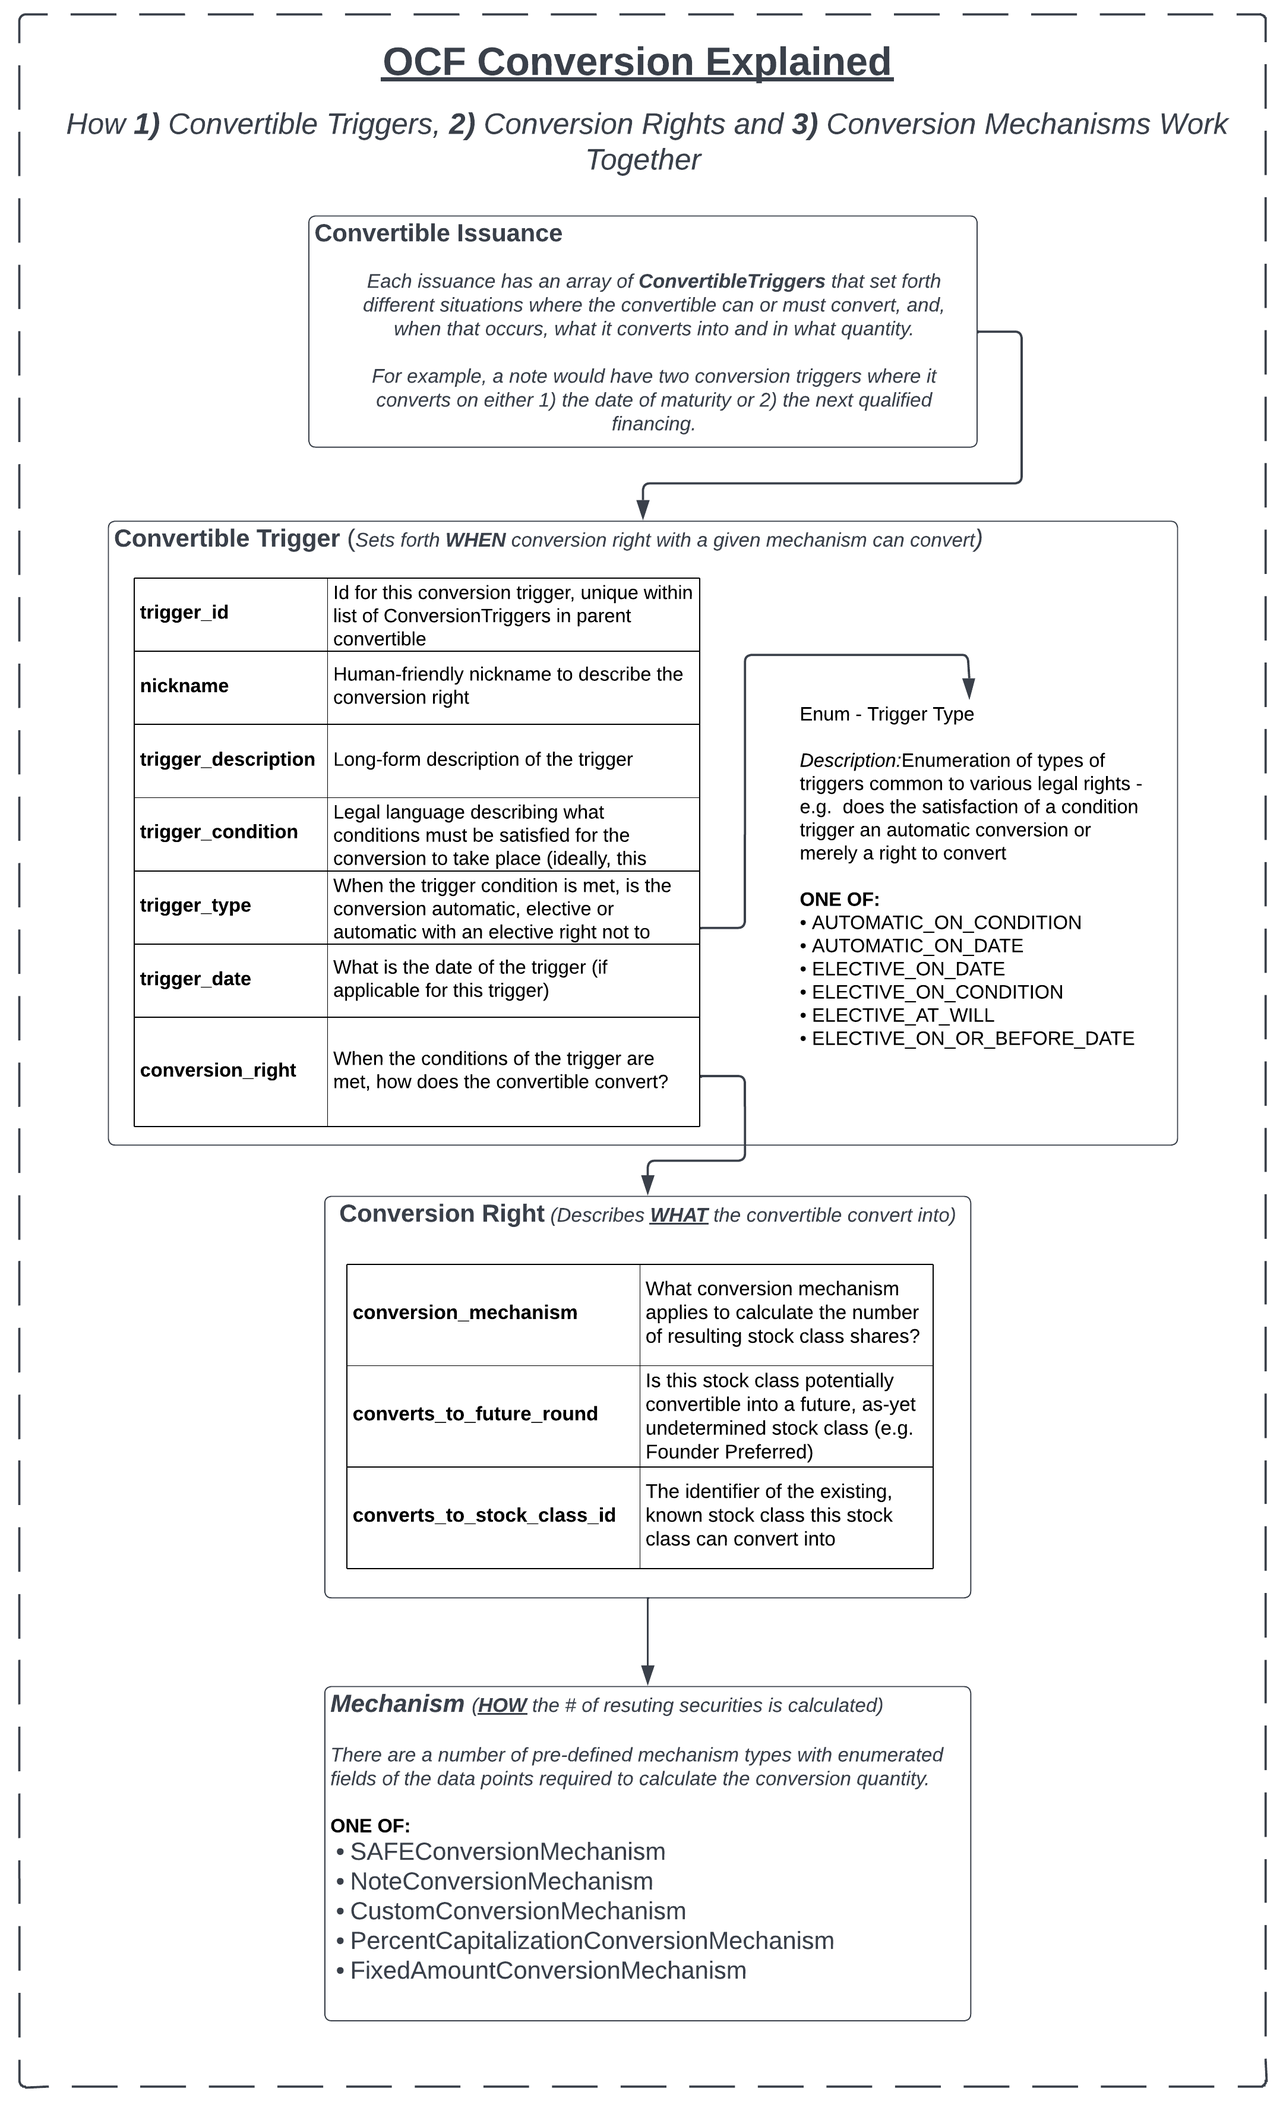
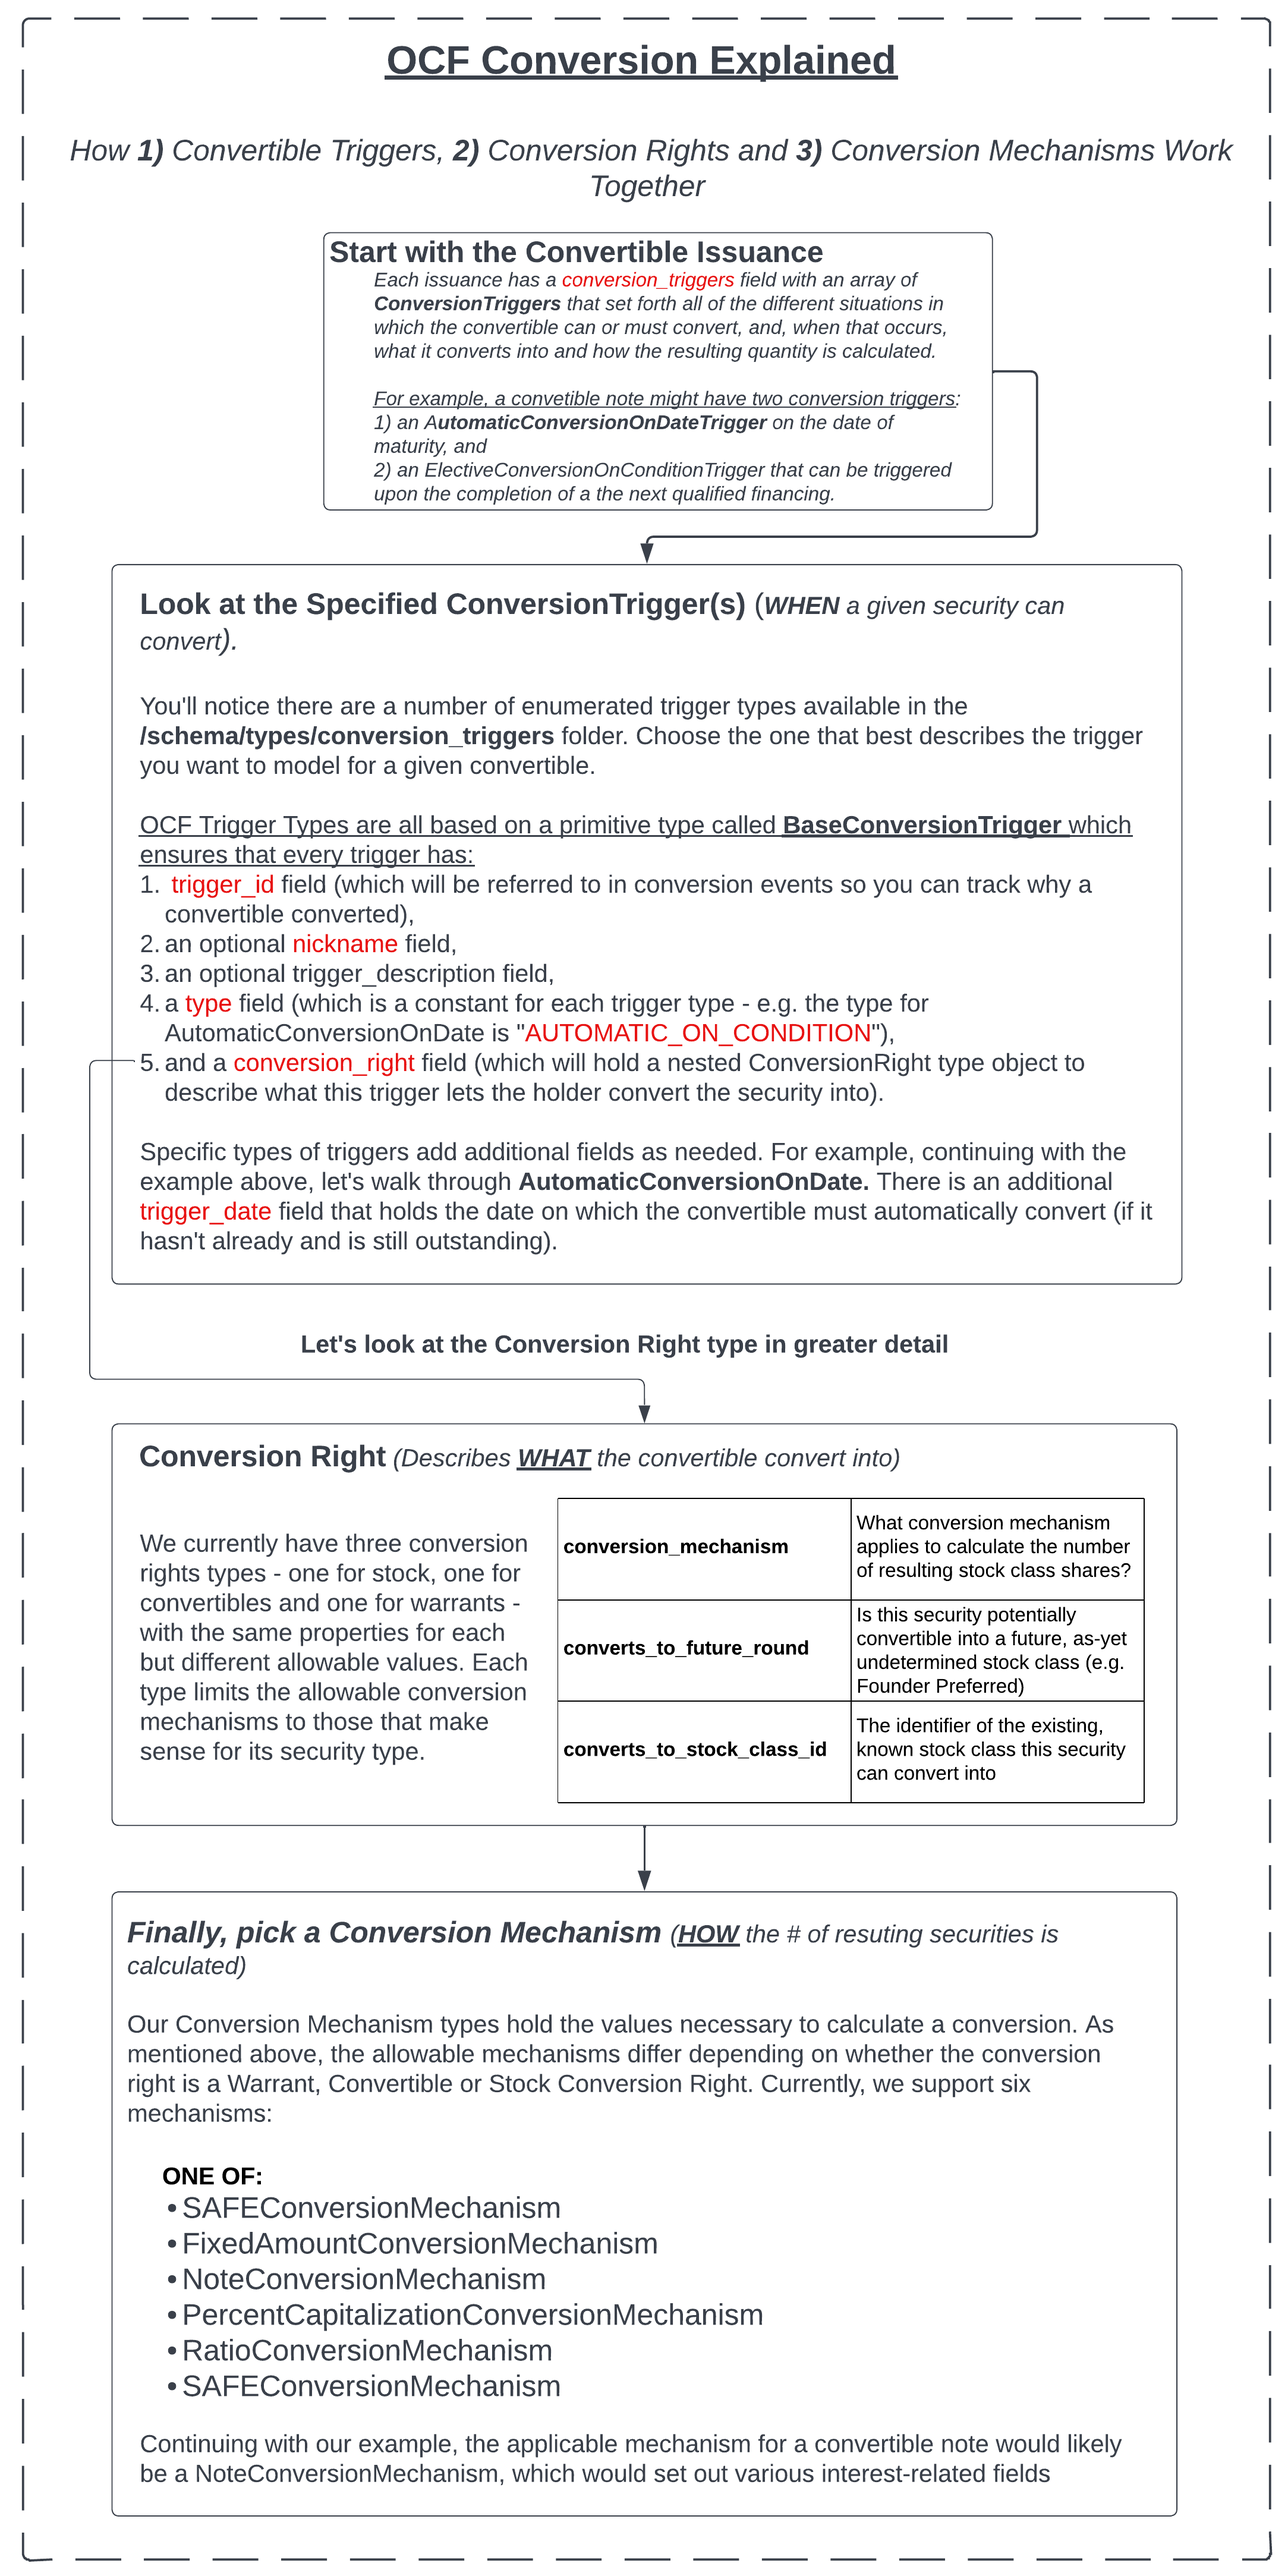
Updated conversion diagrams, tweaked and restructured README to provide additional context and info for launch.

diff --git a/README.md b/README.md
@@ -39,11 +39,13 @@ There are currently 8 file types that make up a cap table:
 8. [Vesting Schedules File(s)](/schema/files/VestingSchedulesFile.schema.json) - One or more files storing vesting
    schedules used by the issuer.
 
-**At the moment, we recommend combining all of these files into a single compressed file with a \*.ocf extension:**
+**At the moment, we recommend combining all of these files into a single compressed file with a \*.ocf.zip extension:**
 
 ![](docs/images/OCF%20Container.png)
 
-We are working on sample tooling to interact with compressed \*.ocf files.
+We are working on sample tooling to interact with compressed \*.ocf.zip files.
+
+**You can also break out the various OCF Types and OCF Objects and make those available separately via API or other, suitable mechanism. The key part of OCF is the data structure, not the container itself, though, to ensure complete cap table integrity, a full cap table export is recommended.**
 
 ### Event-Driven Architecture
 
@@ -56,17 +58,21 @@ Here's an example of how an event stack would work to track the lifecycle of a s
 
 ![](/docs/images/Transaction%20Stack%20Animation.gif)
 
+## Key OCF Concepts
+
+_OCF is designed to be extremely expressive and extensible. Pay particular attention to vesting and conversion, which have both been designed to support the types of complex, bespoke vesting and conversion conditions commonly found on attorney-drafted options and convertibles yet are (today) challenging to model in a structured format_
+
 ### Conversions
 
-The OCF conversion mechanism (which describes how, when and what a convertible security converts into) is based on three key concepts:
+The conversion of one OCF security into another is modeled using three key concepts which describe how, when and into what a convertible security converts into:
 
-1. Conversion Right: what can the security convert into?
-2. Conversion Trigger: when and under what conditions does the Conversion Right come into effect?
-3. Conversion Mechanism: how is the coversion amount calculated?
+1. [Conversion Right](/schema/types/conversion_rights/): what can the security convert into?
+2. [Conversion Trigger](/schema/types/conversion_triggers/): when and under what conditions does the Conversion Right come into effect?
+3. [Conversion Mechanism](/schema/types/conversion_mechanisms/): how is the coversion amount calculated?
 
-We use a similar design pattern for convertible stock (e.g. preferred stock), warrants (which don't "convert" but can be "exercised") and convertible securities (e.g. notes).
+We use the same design patterns for convertible stock (e.g. preferred stock converting into common), warrants (which don't "convert" but can be "exercised") and convertible securities (e.g. notes).
 
-Let's illustrate the design pattern using convertible securities as an example:
+Let's illustrate the design pattern using a convertible note as an example:
 
 ![](docs/images/OCF%20Conversion%20Diagram.png)
 
@@ -74,45 +80,13 @@ And here's what some sample data looks like in practice:
 
 ![](docs/images/OCF%20Conversion%20Example.png)
 
-### Schema Composition
+### Vesting
 
-In order to improve code quality, reduce repetition and provide for a better developer experience, OCF schemas rely
-heavily on [object composition](https://en.wikipedia.org/wiki/Object_composition). In the
-[primitives folder](/schema/primitives), you'll see a number of abstract base models called "primitives" stored in a
-folder structure that mirrors our [objects folder](/schema/objects). We incorporate the properties in these primitives
-into OCF objects by using the JSONSchema [allOf](https://json-schema.org/understanding-json-schema/reference/combining.html)
-property.
+Our vesting data model supports arbitrarily-complex trees of dependent vesting conditions that can mix time-based and event-based vesting (e.g. vesting over time and "milestone" vesting, in any execution order with any desired dependencies). We are working on more comprehensive documentation for these concepts. In the meantime, please review the [vesting terms object](/schema/objects/VestingTerms.schema.json) (essentially a "vesting schedule"). the vesting OCF Types in [/schema/types/vesting](/schema/types/vesting/), and the vesting events in [/schema/objects/transactions/vesting](/schema/objects/transactions/vesting/) (which are used to indicate when a given vesting schedule starts for a given security and when a milestone-based condition is satisfied).
 
-For example, all of our transaction events must have properties listed in the
-[BaseTransaction](/schema/primitives/transactions/BaseTransaction.schema.json) schema. Then, different groups of
-transaction events share some common properties, and these are enforced by incorporating more specific primitives -
-e.g. all issues (whether of stock, plan securities, warrants or convertibles) must incorporate the properties set
-forth in [BaseAcceptance](/schema/primitives/transactions/acceptance/BaseAcceptance.schema.json) _in addition to the
-properties in BaseTransaction_.
+You can see example vesting schedules in our samples folder in the [VestingTerms.ocf.json](/samples/VestingTerms.ocf.json) file.
 
-### What's with empty properties (e.g. {}) in your schemas?
-
-You'll notice that _required_ OCF object properties that are incorporated via composition have empty objects
-as their schema values in the OCF object schemas (i.e. `"id": {}`). This is due to how JSONSchema validators interact with the
-"required" property. If validators don't find a required property in an object schema, even if it's one of the
-primitives the object is composed of, most (all?) JSONSchema validators will throw an error. As a result, we need to
-add required, "inherited" properties to the final OCF object schemas. They don't actually need to be redefined, however,
-so we just assign these repeat properties a value of {} in the schema as JSONSchema validators _can_ import the property
-details via allOf. Our documentation generator looks back to the full details of the property from the inherited schemas,
-however, and the documentation shows the full property details inherited from the primitives. Unless you're developing
-OCF schemas, these implementation details probably won't matter to you, and you can rely on our documentation for
-definitive documentation of the necessary properties and all details thereof.
-
-## How to Contribute
-
-If you would like to suggest a bug-fix or correction to the existing spec, please go ahead and submit a pull request
-with the change. Please consult our [contributor guidelines](/docs/CONTRIBUTING.MD) before submitting.
-
-If you have a suggestion, feature request or other substantive change you think should be incorporated into OCF,
-please start by opening a discussion in our
-[suggestions channel](https://github.com/Open-Cap-Table-Coalition/Open-Cap-Format-OCF/discussions/categories/suggestions)
-on GitHub. Once a consensus is reached on whether and how to incorporate your suggestion, the TWG
-may open an issue and assign a TWG member to lead further work on the issue.
+Stay tuned for expanded documentation!
 
 ## Overall Repo Organization
 
@@ -978,9 +952,55 @@ _Used for object property composition and enforcing uniform properties across pa
 
 - Simply use [VSCode](https://code.visualstudio.com/) with the "Prettier - Code formatter"
 
-### Developing
+### Development Environment Setup
 
 This repo requires Prettier to be run on all files. Run `npm install` to install dev dependencies and Prettier will automatically run pre-commit.
+
+### OCF Types vs OCF Objects
+
+You may notice this distinction in our repo organization, yet both OCF Types and OCF Objects are commonly JSONSchema `object` types (basically meaning they are JSONs).
+
+- An **OCF Object** is a schema with a JSONSchema types of `object` that MUST have a unique Id field in each instance of its schema.
+
+- An **OCF Type** is meant to describe a specific data type that is does not have a unique ID and will be nested somewhere within an OCF Object. These usually have a JSONSchema type of `object`, but they can also be JSONSchema primitives like strings, numbers, etc. that have specific validation rules (e.g. a regex pattern). They do **not** have unique IDs.
+
+### OCF Schemas Rely Heavily on Object Composition Patterns
+
+In order to improve code quality, reduce repetition and provide for a better developer experience, OCF schemas rely
+heavily on [object composition](https://en.wikipedia.org/wiki/Object_composition). In the
+[primitives folder](/schema/primitives), you'll see a folder structure that mirrors the overall `/schema` folder. Where a number of related OCF Objects or OCF Types share properties, we create a "primitive" object in this primitives folder. This primitive's path in the primitives folder must mirror the path to the OCF Object(s) or OCF Type(s) composed from it. We incorporate the properties in these primitives
+into OCF objects by using the JSONSchema [allOf](https://json-schema.org/understanding-json-schema/reference/combining.html)
+property.
+
+Where there are different "flavors" of a given base - e.g. the primitive `BaseConversionRight` is composed into OCF Types of `ConvertibleConversionRight`, a `StockClassConversionRight` or a `WarrantConversionRight` - the final OCF Types / Objects must have a `type` that holds the specific flavors type enumeration - e.g. `STOCK_CLASS_CONVERSION_RIGHT` for `StockClassConversionRight`. This avoids validation problems where two flavors must have identical properties but different allowable property values.
+
+**Here are a couple of concrete object composition examples:**
+
+1. The `ConversionTrigger` OCF Types like `AutomaticConversionOnConditionTrigger` and `ElectiveConversionOnConditionTrigger` are all composed from `BaseConversionTrigger`. The primitive can be found at [/schema/primitives/types/conversion_triggers/](/schema/primitives/types/conversion_triggers/) while the OCF Types composed from this primitive can be found in [/schema/types/conversion_triggers/](/schema/types/conversion_triggers/) [objects folder](/schema/objects).
+2. All OCF Objects must be composed of the [BaseObject](/schema/primitives/objects/BaseObject.schema.json) which ensures there is a required object id field on all OCF Objects. This can be found in `/schema/primitives/objects` as all objects in the `/schema/objects` folder will incorporate its properties.
+3. All of our transaction events must have properties listed in the
+   [BaseTransaction](/schema/primitives/transactions/BaseTransaction.schema.json) schema. Then, different groups of
+   transaction events share some common properties, and these are enforced by incorporating more specific primitives -
+   e.g. all issues (whether of stock, plan securities, warrants or convertibles) must incorporate the properties set
+   forth in [BaseAcceptance](/schema/primitives/transactions/acceptance/BaseAcceptance.schema.json) _in addition to the
+   properties in BaseTransaction_.
+
+### What's with the empty properties (e.g. {}) in your schemas?
+
+You'll notice that _required_ OCF type and object properties that are incorporated via [object composition](###schema-composition-explained)
+have empty objects as their schema values in the OCF object schemas (i.e. `"id": {}`). This is due to how JSONSchema validators
+interact with the "required" property. If validators don't find a required property in an object schema, even if it's one of the
+primitives the object is composed of, most (all?) JSONSchema validators will throw an error. As a result, we need to
+add required, "inherited" properties to the final OCF object schemas. They don't actually need to be redefined, however,
+so we just assign these repeat properties a value of {} in the schema as JSONSchema validators _can_ import the property
+details via allOf. Our documentation generator looks back to the full details of the property from the inherited schemas,
+however, and the documentation shows the full property details inherited from the primitives. Unless you're developing
+OCF schemas, these implementation details probably won't matter to you, and you can rely on our documentation for
+definitive documentation of the necessary properties and all details thereof.
+
+### Don't Add Additional Properties to OCF
+
+You may notice that the primitive schemas do not prevent the inclusion of additional properties, whereas all OCF Types and OCF Objects that are also JSONSchema `objects` (basically anything that's not just an enum or primitive data type with validation check) have `additionalProperties`: `false` to prevent the inclusion of additional properties. This is due to primitives not being meant for use by consumers of the OCF standard. As we build more complex objects from primitives, we need to allow the primitive to have the additional properties required by the final OCF Objects and Types or else you'd get validation errors. We do not want the OCF Types and OCF Objects that are meant for use by the community to have additional properties, however, as we want to avoid situations where third-parties implementing OCF add custom or undocumented fields and types. This could cause unanticipated compatibility issues and collisions with future versions of OCF, if, for example, a popular implementation of OCF used a custom property with a name that we later want to add to to the official standard.
 
 ### Testing
 
@@ -1001,16 +1021,4 @@ our toolchain and everything here is subject to change_
 
 ## Contributors (alphabetical)
 
-- Ryan Carpenter
-- Ben Hutchings
-- Patrick Johnmeyer
-- Andrey Lebedev
-- Tyler McConnell
-- Dan Owen
-- Chris Pasakarnis
-- John Scrudato
-- Ray Shan
-- Caroline Taymor
-- Eric Vogl
-- Rob Wise
-- Jacob Yavis
+Please see the Open Cap Table Coalition Website or our GitHub Code Contributors List.
